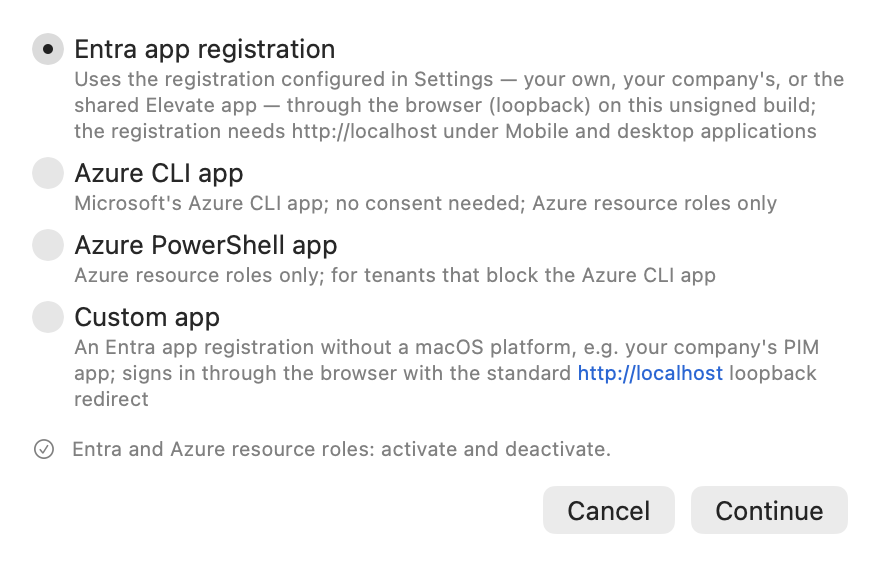
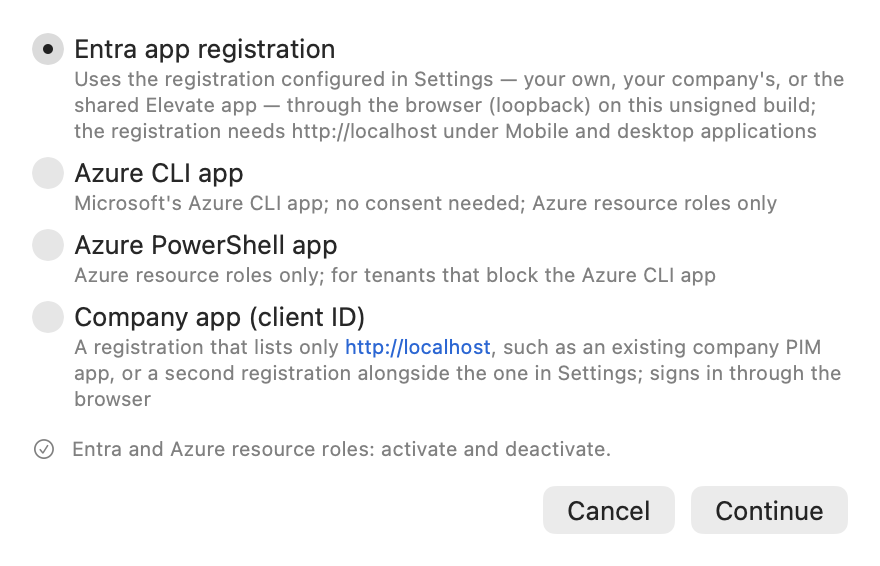
feat: rename the Custom app sign-in method to Company app (client ID)

Changed region(s): [[0.092, 0.5406, 0.9511, 0.7208]]

diff --git a/macos/Sources/ElevateApp/Views/AddAccountView.swift b/macos/Sources/ElevateApp/Views/AddAccountView.swift
@@ -16,7 +16,7 @@ struct AddAccountView: View {
 
     private var methods: [SignInMethod] { model.availableMethods }
     private var selectedChoice: Choice {
-        // With every fixed method withheld by the organization, "Custom app" is all that is left
+        // With every fixed method withheld by the organization, "Company app" is all that is left
         // — and it may be withheld too, in which case the dialog has nothing to offer.
         choice ?? methods.first { model.isAvailable($0) }.map(Choice.fixed) ?? methods.first.map(Choice.fixed) ?? .custom
     }
@@ -41,8 +41,8 @@ struct AddAccountView: View {
                 }
                 if model.isCustomMethodAllowed {
                     VStack(alignment: .leading, spacing: 1) {
-                        Text("Custom app")
-                        Text("An Entra app registration without a macOS platform, e.g. your company's PIM app; signs in through the browser with the standard http://localhost loopback redirect")
+                        Text("Company app (client ID)")
+                        Text("A registration that lists only http://localhost, such as an existing company PIM app, or a second registration alongside the one in Settings; signs in through the browser")
                             .font(.caption).foregroundStyle(.secondary)
                     }
                     .tag(Choice.custom)
@@ -118,7 +118,7 @@ struct AddAccountView: View {
         case .azurePowerShell:
             "Azure resource roles only; for tenants that block the Azure CLI app"
         case .custom:
-            "An Entra app registration without a macOS platform, used through the loopback flow"
+            "A registration that lists only http://localhost, or a second one alongside the registration in Settings; signs in through the browser"
         }
     }
 

diff --git a/windows/src/Elevate.App/Views/AddAccountWindow.xaml b/windows/src/Elevate.App/Views/AddAccountWindow.xaml
@@ -23,7 +23,7 @@
             </RadioButton>
             <RadioButton x:Name="CustomChoice" GroupName="method" Checked="OnChoiceChanged">
                 <StackPanel>
-                    <TextBlock Text="Custom client ID" FontWeight="SemiBold" />
+                    <TextBlock Text="Company app (client ID)" FontWeight="SemiBold" />
                     <TextBlock Text="A company multi-tenant registration without the WAM redirect; signs in through the system browser on http://localhost."
                                FontSize="12" Foreground="{ThemeResource TextFillColorSecondaryBrush}" TextWrapping="Wrap" />
                 </StackPanel>

diff --git a/macos/Sources/ElevateApp/App/AppSettings.swift b/macos/Sources/ElevateApp/App/AppSettings.swift
@@ -59,7 +59,7 @@ final class AppSettings {
     /// True when the organization turned the update check off; the app then never calls GitHub.
     var updateCheckDisabled: Bool { managed.disableUpdateCheck }
 
-    /// Last client id typed into "Custom app" in Add account, so the next account
+    /// Last client id typed into "Company app (client ID)" in Add account, so the next account
     /// from the same company app needs no retyping. Not a configuration value in its own right.
     var customClientId: String {
         didSet { defaults.set(customClientId, forKey: Self.customClientIdKey) }

diff --git a/macos/Sources/ElevateApp/App/AppModel+Accounts.swift b/macos/Sources/ElevateApp/App/AppModel+Accounts.swift
@@ -10,7 +10,7 @@ extension AppModel {
     /// the organization does not permit is not listed at all.
     var availableMethods: [SignInMethod] { SignInMethod.builtIn.filter { isMethodAllowed($0) } }
 
-    /// Whether the "Custom app" row is offered; the client id typed into it does not change the
+    /// Whether the "Company app (client ID)" row is offered; the client id typed into it does not change the
     /// answer, since the managed allow-list names kinds of method, not registrations.
     var isCustomMethodAllowed: Bool { isMethodAllowed(.custom(clientId: "")) }
 

diff --git a/macos/Sources/ElevateCore/Models/SignInMethod.swift b/macos/Sources/ElevateCore/Models/SignInMethod.swift
@@ -24,7 +24,7 @@ public enum SignInMethod: Hashable, Sendable {
         case .ownApp: "Entra app registration"
         case .azureCLI: "Azure CLI app"
         case .azurePowerShell: "Azure PowerShell app"
-        case .custom: "Custom app"
+        case .custom: "Company app (client ID)"
         }
     }
 

diff --git a/windows/tests/Elevate.Core.Tests/SignInMethodTests.cs b/windows/tests/Elevate.Core.Tests/SignInMethodTests.cs
@@ -30,7 +30,7 @@ public class SignInMethodTests
         SignInMethod.AzureCLI.DisplayName.Should().Be("Azure CLI app");
         SignInMethod.AzurePowerShell.DisplayName.Should().Be("Azure PowerShell app");
         // The flow is an implementation detail; the caption names the method only.
-        SignInMethod.Custom("abc").DisplayName.Should().Be("Custom app");
+        SignInMethod.Custom("abc").DisplayName.Should().Be("Company app (client ID)");
     }
 
     [Fact]

diff --git a/windows/src/Elevate.Core/Models/SignInMethod.cs b/windows/src/Elevate.Core/Models/SignInMethod.cs
@@ -54,7 +54,7 @@ public readonly record struct SignInMethod
         SignInMethodKind.OwnApp => "Entra app registration",
         SignInMethodKind.AzureCLI => "Azure CLI app",
         SignInMethodKind.AzurePowerShell => "Azure PowerShell app",
-        _ => "Custom app",
+        _ => "Company app (client ID)",
     };
 
     /// <summary>Client id used through the loopback flow, or null when the own MSAL registration is used.</summary>

diff --git a/docs/getting-started.md b/docs/getting-started.md
@@ -57,8 +57,10 @@ Click **Add account…** at the bottom of the panel. Pick the sign-in method for
   signed build, through your browser on an unsigned one.
 - **Azure CLI app** and **Azure PowerShell app** are Microsoft's own apps. No consent, Azure
   resource roles only. Use the PowerShell one when your tenant blocks the Azure CLI.
-- **Custom app** is any other public-client registration you have an ID for, such as a
-  company-wide PIM app. Elevate reads what it was granted after sign-in.
+- **Company app (client ID)** is for two cases: an existing public-client registration that
+  lists only `http://localhost`, such as a company-wide PIM app, or a second registration you
+  want to use alongside the one in Settings. Type its ID; Elevate reads what it was granted after
+  sign-in.
 
 Click **Continue**. Your browser opens for Microsoft sign-in and returns you to Elevate. The
 account appears in the panel with its home tenant and, after a moment, the roles you are

diff --git a/macos/README.md b/macos/README.md
@@ -66,7 +66,7 @@ Elevate can add an account in two ways, chosen per account in "Add account…":
   unsigned build only needs `http://localhost` registered as a redirect URI under the "Mobile and
   desktop applications" platform (the setup script and the guide already add it). Settings shows
   "via loopback" next to the version when that is the active transport.
-- **A custom app registration through the loopback flow** ("Custom app (loopback)"). Any
+- **A custom app registration through the loopback flow** ("Company app (client ID)"). Any
   public-client registration you have a client ID for, such as a company-wide PIM app that has
   no macOS platform configured. It needs `http://localhost` registered as a redirect URI
   under the "Mobile and desktop applications" platform (that platform marks it public-client, so

diff --git a/CHANGELOG.md b/CHANGELOG.md
@@ -39,6 +39,9 @@ and this project adheres to [Semantic Versioning](https://semver.org/spec/v2.0.0
   with the Entra app registration method, not only after discovery fell back to manual roles or
   groups became unavailable, so an administrator can re-consent after a scope is added before
   anything fails.
+- macOS and Windows: the "Custom app" sign-in method is now "Company app (client ID)", with a
+  caption naming the two cases it is for: a registration that lists only `http://localhost`, or a
+  second registration alongside the one in Settings.
 
 ### Fixed
 

diff --git a/docs/troubleshooting.md b/docs/troubleshooting.md
@@ -36,7 +36,7 @@ Graph PIM permissions, so Elevate never reads or activates Entra roles or group 
 it and never shows permission errors for them either. Azure resource roles work normally.
 
 To get Entra roles for that account, sign it out and add it again with **Entra app registration**
-or a **Custom app**.
+or a **Company app (client ID)**.
 
 ## Azure is off in a tenant
 
